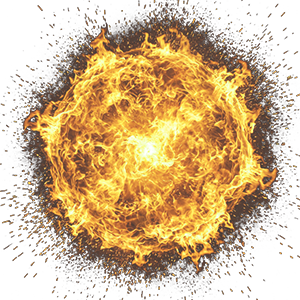
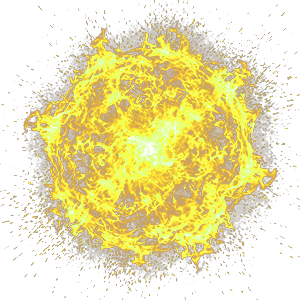
fix: normalizeCharIdによる010/10/6等のID表記の完全揺らぎ吸収・GlobalStateエイリアス化・パーティー自動修復同期の実装

diff --git a/src/scenes/AdventureScene.js b/src/scenes/AdventureScene.js
@@ -366,14 +366,23 @@ export default class AdventureScene extends Phaser.Scene {
             }
         }
         
-        const partySet = new Set(initialParty || ['001']);
+        const partySet = new Set();
+        if (initialParty && Array.isArray(initialParty)) {
+            for (const rawId of initialParty) {
+                partySet.add(gs.normalizeCharId(rawId));
+            }
+        } else {
+            partySet.add('001');
+        }
+
         if (!this._initData.fromTitleNewGame && !this._initData.isTutorialStart && gs.savedFormation && Object.keys(gs.savedFormation).length > 0) {
             for (const cid of Object.keys(gs.savedFormation)) {
-                partySet.add(cid);
+                partySet.add(gs.normalizeCharId(cid));
             }
         }
         this.party = Array.from(partySet);
-        console.log('[AdventureScene] Restored party:', this.party);
+        console.log('[AdventureScene] Restored & normalized party:', this.party);
+
 
 
 
@@ -596,18 +605,19 @@ export default class AdventureScene extends Phaser.Scene {
 
 
             // GlobalState.savedFormation に存在するキャラクターを this.party に同期
-            // パーティ内の未登録キャラに自動隊列を割り当て
             for (const charId of this.party) {
-                gs.assignFormationForNewMember(charId);
+                gs.assignFormationForNewMember(gs.normalizeCharId(charId));
             }
             if (gs.savedFormation) {
-                for (const charId of Object.keys(gs.savedFormation)) {
-                    if (!this.party.includes(charId)) {
-                        this.party.push(charId);
-                        console.log('[AdventureScene] Synced missing character to party:', charId);
+                for (const rawCid of Object.keys(gs.savedFormation)) {
+                    const normCid = gs.normalizeCharId(rawCid);
+                    if (!this.party.includes(normCid)) {
+                        this.party.push(normCid);
+                        console.log('[AdventureScene] Synced missing character to party:', normCid);
                     }
                 }
             }
+
 
 
 
@@ -2150,15 +2160,18 @@ export default class AdventureScene extends Phaser.Scene {
             if (locInfo) {
                 // まだ未遭遇の特定仲間がいる場合、パーティ人数に応じた確率で遭遇
                 // 1人: 100%, 2人: 1/2(50%), 3人: 1/3(33.3%), 4人: 1/4(25%), 5人以上: 0%(発生しない)
-                if (locInfo.charId && !this.party.includes(locInfo.charId)) {
+                const targetCharId = locInfo.charId ? gs.normalizeCharId(locInfo.charId) : null;
+                const currentNormParty = (this.party || []).map(id => gs.normalizeCharId(id));
+                if (targetCharId && !currentNormParty.includes(targetCharId)) {
                     const partySize = this.party ? this.party.length : 1;
                     if (partySize < 5) {
                         const encounterChance = 1.0 / partySize;
                         if (Math.random() < encounterChance) {
-                            triggeredJoinCharId = locInfo.charId;
+                            triggeredJoinCharId = targetCharId;
                         }
                     }
                 }
+
 
 
                 // 1/2 (50%) の確率で断片的な情報テキストを拾う
@@ -2181,20 +2194,23 @@ export default class AdventureScene extends Phaser.Scene {
 
             // 仲間遭遇が発生した場合、即座にパーティに追加して隊列割り当て・全回復・セーブし、join_eventsから立ち絵会話を追加
             if (triggeredJoinCharId) {
-                if (!this.party.includes(triggeredJoinCharId)) {
-                    this.party.push(triggeredJoinCharId);
-                    gs.assignFormationForNewMember(triggeredJoinCharId);
-                    const joinedChar = gs.characters[triggeredJoinCharId];
-                    if (joinedChar) {
-                        const stats = gs.calcStats(triggeredJoinCharId, this.party);
-                        if (stats) {
-                            joinedChar.currentHp = stats.maxHp;
-                            joinedChar.currentSp = stats.maxSp;
-                        }
-                    }
-                    SaveManager.saveGame(this);
-                    console.log('[AdventureScene] Immediate join & formation assigned for:', triggeredJoinCharId);
+                const normJoinId = gs.normalizeCharId(triggeredJoinCharId);
+                const currentNormParty = (this.party || []).map(id => gs.normalizeCharId(id));
+                if (!currentNormParty.includes(normJoinId)) {
+                    this.party.push(normJoinId);
                 }
+                gs.assignFormationForNewMember(normJoinId);
+                const joinedChar = gs.characters[normJoinId] || gs.characters[triggeredJoinCharId];
+                if (joinedChar) {
+                    const stats = gs.calcStats(normJoinId, this.party);
+                    if (stats) {
+                        joinedChar.currentHp = stats.maxHp;
+                        joinedChar.currentSp = stats.maxSp;
+                    }
+                }
+                SaveManager.saveGame(this);
+                console.log('[AdventureScene] Immediate join & formation assigned for:', normJoinId);
+
 
                 const joinEvents = this.cache.json.get('join_events');
                 if (joinEvents) {

diff --git a/src/systems/GlobalState.js b/src/systems/GlobalState.js
@@ -93,18 +93,32 @@ export class GlobalState {
 
         
         // 全キャラクターの永続データ
+        const byakurenData = this.createInitialCharData('010', '白蓮', 1);
         this.characters = {
             '001': this.createInitialCharData('001', '紫苑', 1),
             '002': this.createInitialCharData('002', '蒼樹', 1),
             '003': this.createInitialCharData('003', '紅華', 1),
             '004': this.createInitialCharData('004', '黄蘭', 1),
             '005': this.createInitialCharData('005', '李乃果', 1),
-            '010': this.createInitialCharData('010', '白蓮', 1)
+            '010': byakurenData,
+            '10': byakurenData // '10'キーでもアクセス可能にエイリアスを設定
         };
 
-        
         GlobalState.instance = this;
     }
+
+    normalizeCharId(id) {
+        if (!id) return '001';
+        const str = id.toString().trim();
+        if (str === '10' || str === '010') return '010';
+        if (str === '1' || str === '001') return '001';
+        if (str === '2' || str === '002' || str === '12') return '002';
+        if (str === '3' || str === '003' || str === '9') return '003';
+        if (str === '4' || str === '004') return '004';
+        if (str === '5' || str === '005' || str === '15') return '005';
+        return str.padStart(3, '0');
+    }
+
 
     static getInstance() {
         if (!GlobalState.instance) {
